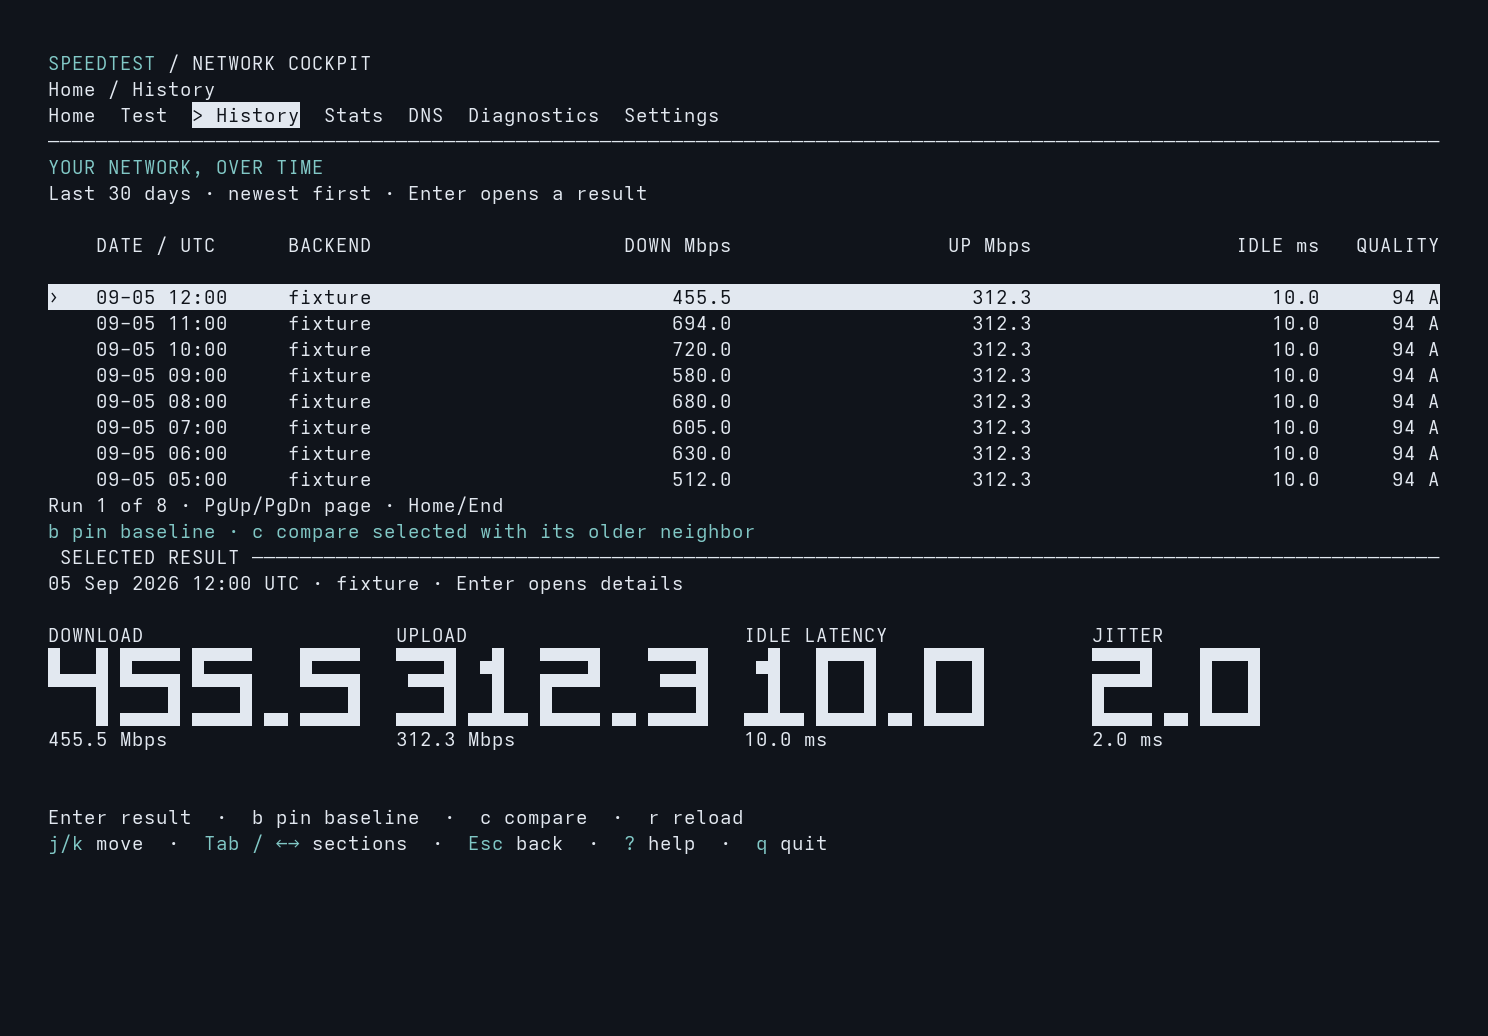
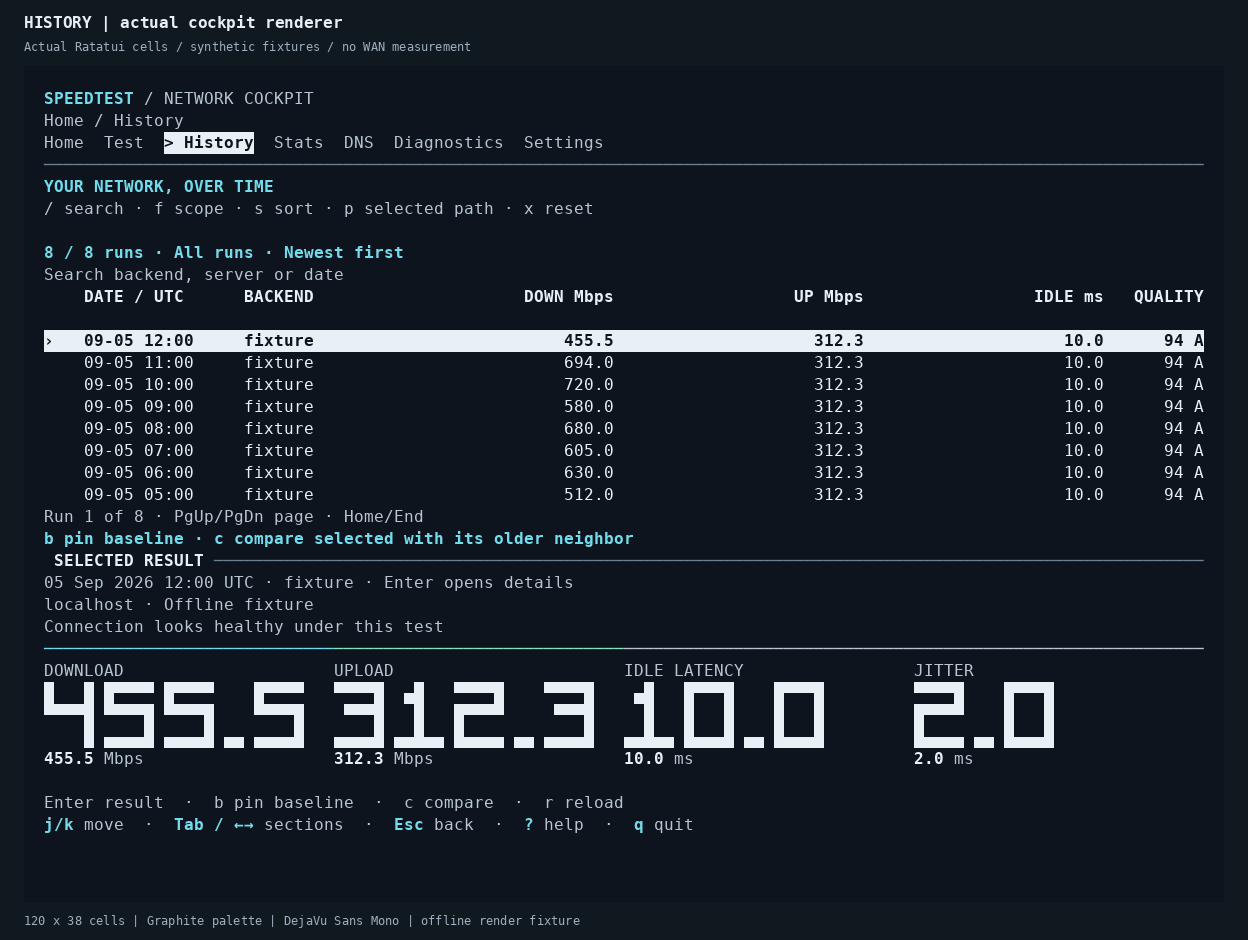
docs: refresh cockpit GIFs and screenshots after badge removal

diff --git a/docs/images/readme/README.md b/docs/images/readme/README.md
@@ -5,8 +5,9 @@ Ratatui interface. They use the same render path as the interactive application,
 but the values are illustrative fixtures: no public speed test, DNS query, system
 configuration change, or personal history was used to create them.
 
-The gallery is captured at 120 × 38 cells with the terminal-adaptive palette
-and English interface. Home, Live, Results, and History come from
+The gallery is captured at 120 × 38 cells with the explicitly selected Graphite
+palette and English interface. The app still inherits the terminal palette by
+default. Home, Live, Results, and History come from
 `capture_readability_frames_when_explicitly_requested`; Compare comes from
 `capture_review_frames_when_explicitly_requested`.
 
@@ -14,7 +15,8 @@ Regenerate the source buffers from the repository root:
 
 ```bash
 READABILITY_SNAPSHOT_DIR=/tmp/speedtest-readme-frames \
-COCKPIT_SNAPSHOT_DIR=/tmp/speedtest-readme-frames \
+COCKPIT_SNAPSHOT_DIR=/tmp/speedtest-readme-review \
+COCKPIT_MOTION_SNAPSHOT_DIR=/tmp/speedtest-readme-motion \
 cargo test --locked --lib capture_ -- --nocapture
 ```
 
@@ -22,12 +24,27 @@ The JSON buffers record every cell's symbol, foreground, background, and style.
 The committed PNG files are raster previews of those buffers. Regeneration is
 opt-in so ordinary test runs do not modify documentation assets.
 
-`live-demo.gif` and `cockpit-tour.gif` animate those same fixtures with a
-deterministic HyperFrames/GSAP timeline. The 14-second silent master passed the
-HyperFrames browser audit for runtime errors, layout, motion, and contrast. It
-was split into a 6-second live-measurement loop and an 8-second cockpit-tour
-loop, encoded at 12 frames per second with 128-color palettes. Each GIF's final
-frame is identical to its first frame for a clean infinite loop.
+Render the gallery with Pillow 12.3.0 and DejaVu Sans Mono installed:
+
+```bash
+python docs/images/readme/render_gallery.py \
+  --readability-dir /tmp/speedtest-readme-frames \
+  --review-dir /tmp/speedtest-readme-review \
+  --motion-dir /tmp/speedtest-readme-motion
+```
+
+`live-demo.gif` uses the actual live renderer's five-second sequence at 50 ms
+intervals, with one-second Home holds before and after. Synthetic engine events
+drive download, upload, and completion; no intermediate UI states are invented.
+`cockpit-tour.gif` is an 8.05-second slideshow of actual Home, History, Compare,
+and Results buffers, with two-second holds and a final Home frame. Compare uses
+the pinned-baseline review fixture. Both loops end on their starting frame and
+use shared 256-color palettes; identical adjacent frames may be coalesced.
+
+Current assets were captured from [`e1e175e`](https://github.com/cmdr-chara/speedtest-cli/commit/e1e175e24a47f447779f8ea39c545ebcea9aa64a),
+including the requested removal of the top-right measuring badge.
+The [capture workflow](../../../.github/workflows/cockpit-visuals.yml) reproduces
+the README and design galleries without changing the historical before images.
 
 | File | Screen |
 | --- | --- |

diff --git a/README.md b/README.md
@@ -192,7 +192,7 @@ Page, chart, selection, and result transitions remain animated, with a static
 The live view shows throughput alongside latency as the test progresses.
 
 <p align="center">
-  <img src="./docs/images/readme/live-demo.gif" width="960" alt="Animated speedtest-cli walkthrough from the dashboard into a live download measurement and back">
+  <img src="./docs/images/readme/live-demo.gif" width="960" alt="Animated speedtest-cli walkthrough through Home, download, upload, completed results, and back">
 </p>
 
 #### Explore results and history
@@ -200,7 +200,7 @@ The live view shows throughput alongside latency as the test progresses.
 Browse saved tests, pin a baseline, compare it with another run, and open the full result.
 
 <p align="center">
-  <img src="./docs/images/readme/cockpit-tour.gif" width="960" alt="Animated speedtest-cli tour through History, baseline comparison, Results, and back to Home">
+  <img src="./docs/images/readme/cockpit-tour.gif" width="960" alt="speedtest-cli screenshot tour through Home, History, baseline comparison, Results, and back to Home">
 </p>
 
 <details>

diff --git a/docs/images/design/README.md b/docs/images/design/README.md
@@ -4,6 +4,12 @@ Screenshots and animation are rasterized from **actual application Ratatui cell
 buffers**. They use synthetic offline fixtures, English, and the explicitly chosen
 Graphite palette. The application still inherits the terminal's palette by default.
 
+The current after images and GIF were recaptured from
+[`e1e175e`](https://github.com/cmdr-chara/speedtest-cli/commit/e1e175e24a47f447779f8ea39c545ebcea9aa64a),
+including removal of the top-right measuring badge. The
+[capture workflow](../../../.github/workflows/cockpit-visuals.yml) renders current
+assets; the historical before images remain unchanged.
+
 ## Before and after
 
 Each pair uses the same saved results, live readings, terminal dimensions, palette,
